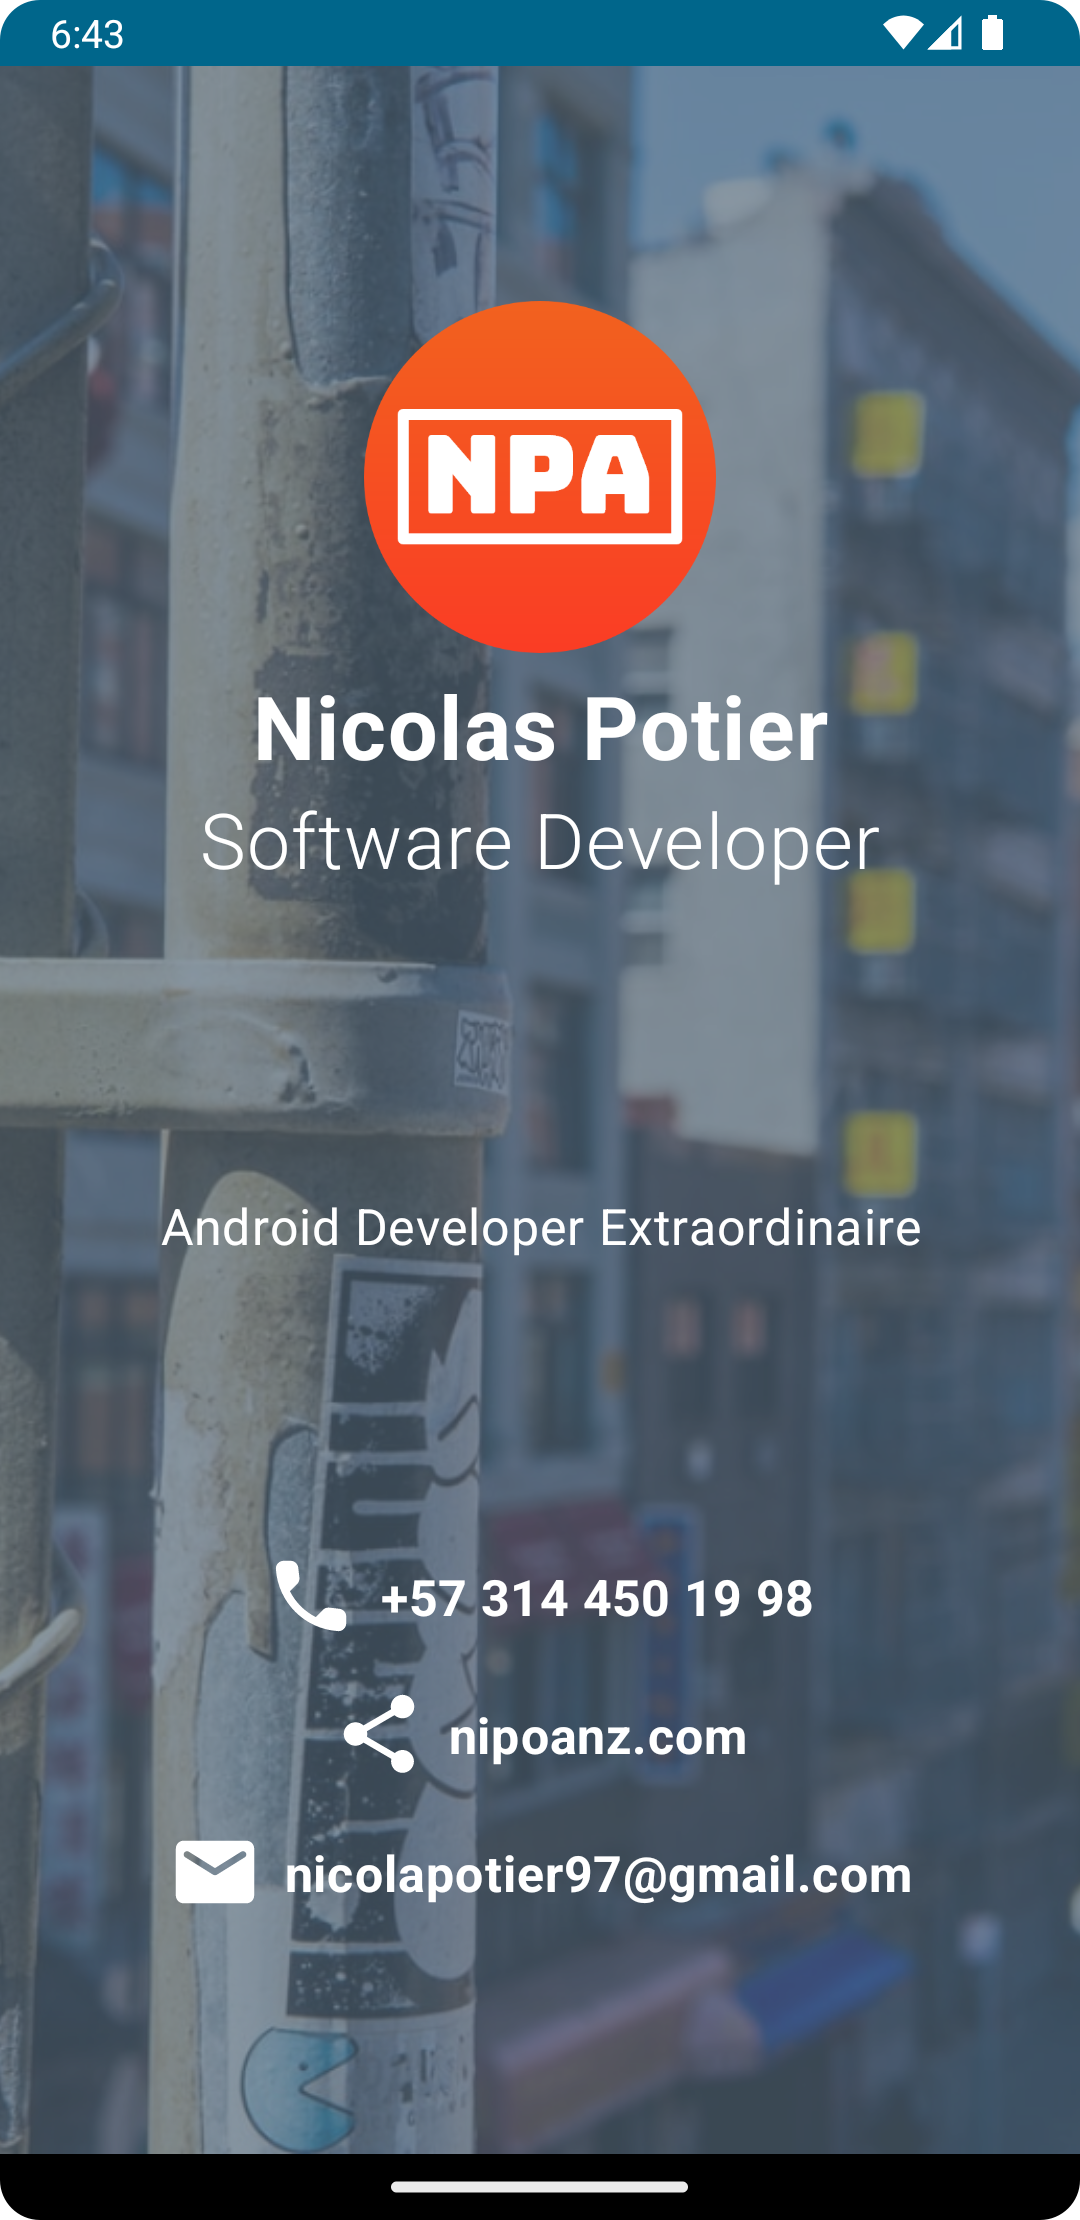
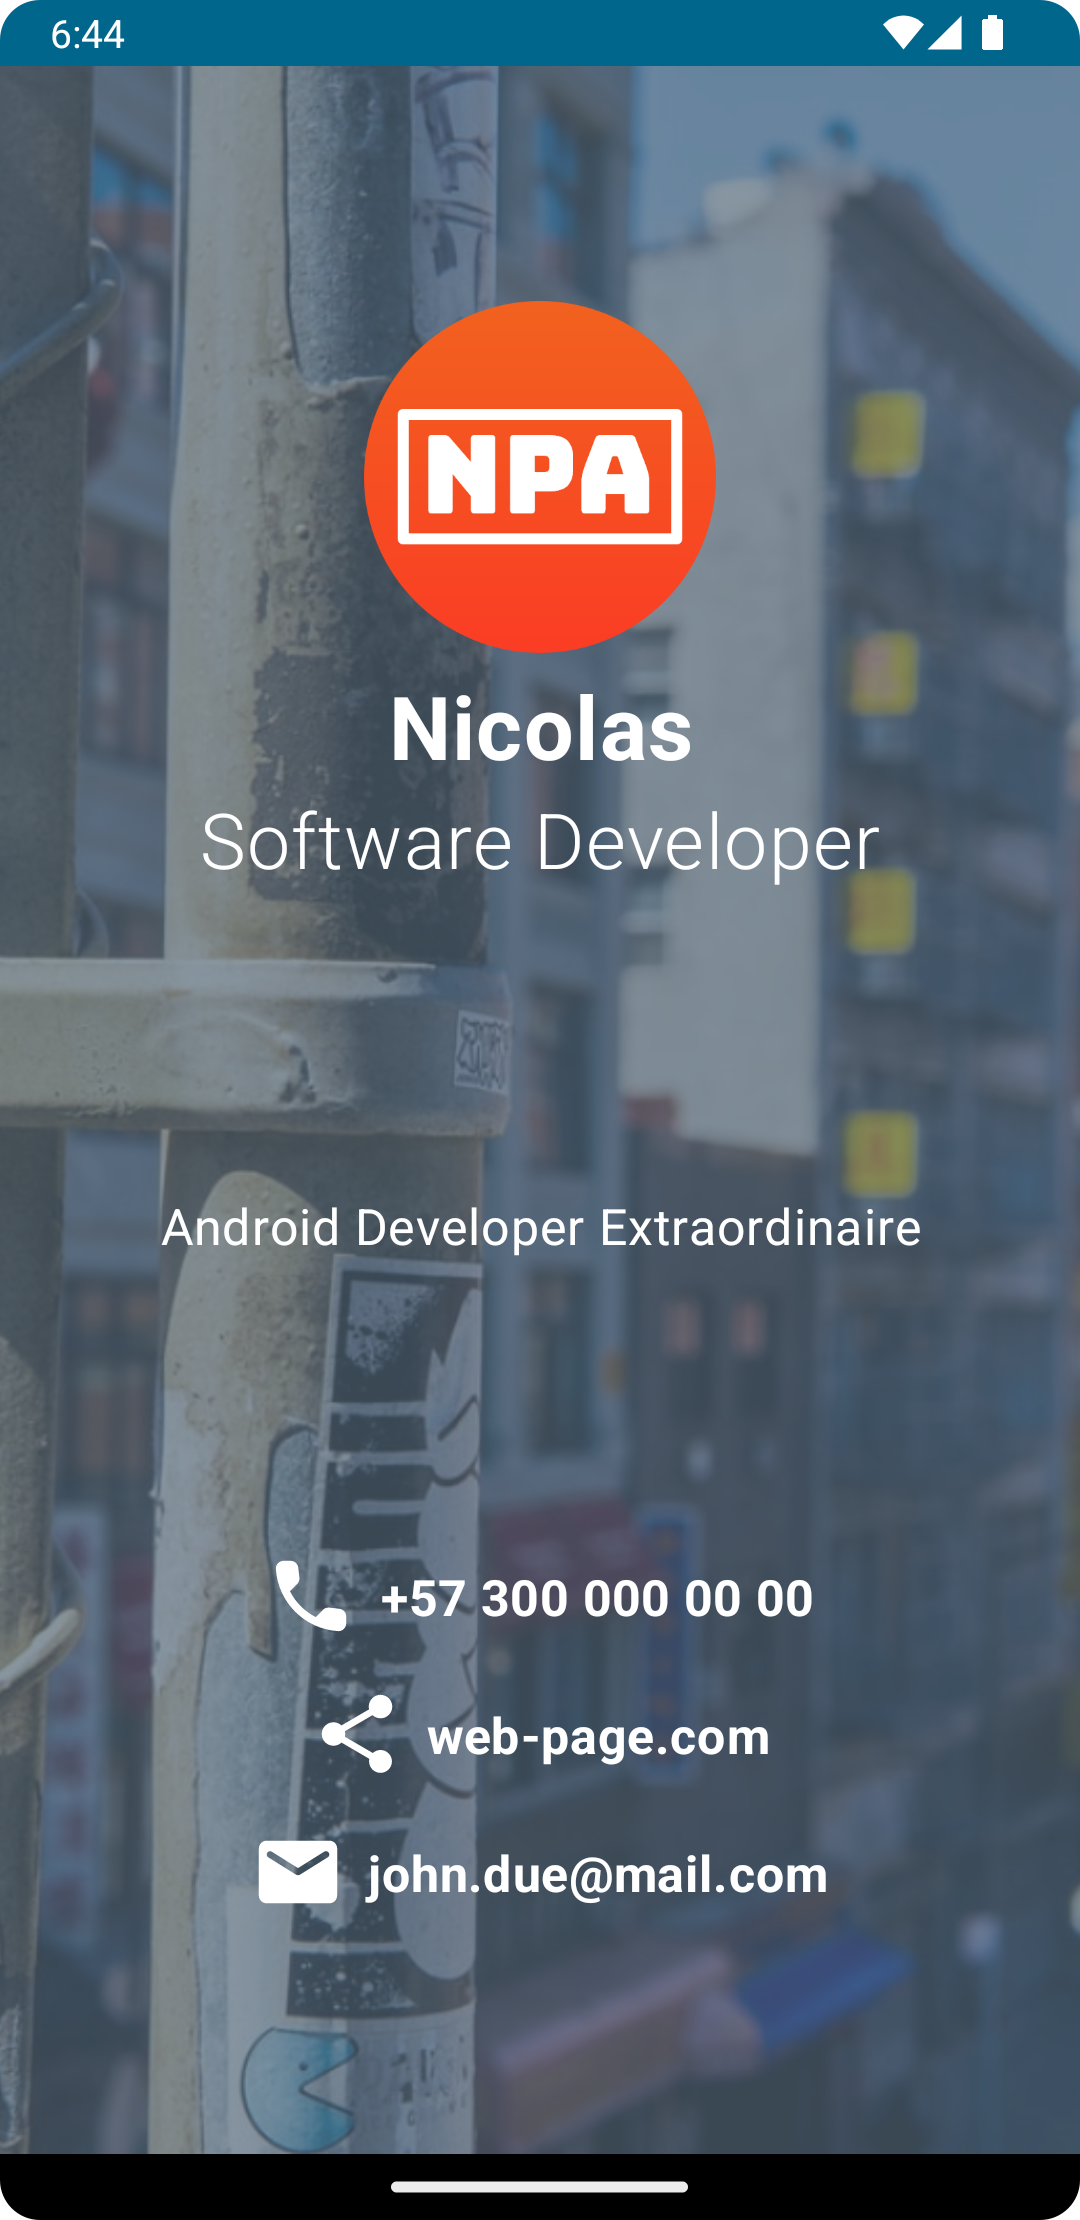
first commit

diff --git a/app/src/main/java/com/example/mypresentationcard/MainActivity.kt b/app/src/main/java/com/example/mypresentationcard/MainActivity.kt
@@ -123,7 +123,7 @@ fun ContactDetails() {
                     .size(34.dp)
             )
             Text(
-                text = "+57 314 450 19 98",
+                text = "+57 300 000 00 00",
                 fontWeight = FontWeight.Bold,
                 fontSize = 18.sp,
                 color = Color(0xFFFFFFFF),
@@ -142,7 +142,7 @@ fun ContactDetails() {
                     .size(34.dp)
             )
             Text(
-                text = "nipoanz.com",
+                text = "web-page.com",
                 fontWeight = FontWeight.Bold,
                 fontSize = 18.sp,
                 color = Color(0xFFFFFFFF),
@@ -160,7 +160,7 @@ fun ContactDetails() {
                     .size(34.dp)
             )
             Text(
-                text = "nicolapotier97@gmail.com",
+                text = "john.due@mail.com",
                 fontWeight = FontWeight.Bold,
                 fontSize = 18.sp,
                 color = Color(0xFFFFFFFF),
